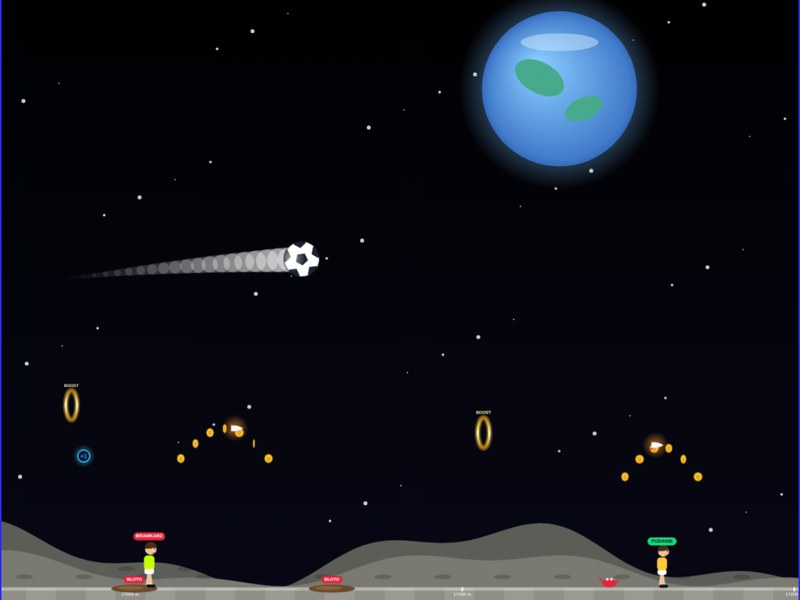
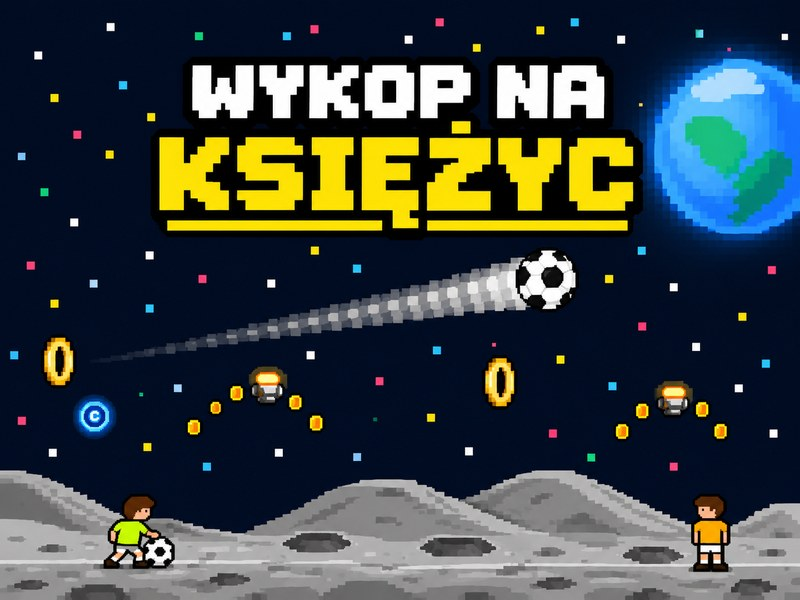
Add files via upload

diff --git a/assets/ss_ui.js b/assets/ss_ui.js
@@ -37,7 +37,7 @@ function header(){var s=S();
  fsBtn()+'</header>'}
 function nav(){return '<nav class="ss-nav">'+TABS.map(function(t){return '<button class="'+(UI.tab===t[0]?'on':'')+'" data-a="tab" data-v="'+t[0]+'"><i>'+t[1]+'</i><span>'+t[2]+'</span>'+(t[0]==='media'&&UI.mediaNew?'<b class="ss-dot"></b>':'')+'</button>'}).join('')+'</nav>'}
 
-function norm(sv){if(!sv)return sv;if(sv.phase==='match'&&!UI.MV)sv.phase='pre';if(sv.phase==='press')sv.phase='pre';if(sv.phase==='post'&&!UI.post){var w0=sv.win;sv.newSong=null;w0.mi++;if(w0.mi<w0.matches.length)sv.phase='pre';else{MM.finishWindow();sv.phase='wrap'}X.save()}if(sv.phase==='callup'&&!UI.callReady)prepCall();return sv}
+function norm(sv){if(!sv)return sv;if(sv.phase==='match'&&!UI.MV)sv.phase='pre';if(sv.phase==='press'&&!(UI.qs&&UI.qs[UI.pq])){sv.phase='pre';ensureXI()}if(sv.phase==='post'&&!UI.post){var w0=sv.win;sv.newSong=null;w0.mi++;if(w0.mi<w0.matches.length)sv.phase='pre';else{MM.finishWindow();sv.phase='wrap'}X.save()}if(sv.phase==='callup'&&!UI.callReady)prepCall();return sv}
 function render(){var s=S();if(s)norm(s);
  if(!s){unmountMatch();app.className='ss-app st';app.innerHTML=startScreen();return}
  if(s.phase==='match'&&UI.MV){if(!UI.mm){app.className='ss-app inm';app.innerHTML=matchShell();UI.mm=1;mountMatch()}renderOv();return}

diff --git a/assets/style.css b/assets/style.css
@@ -1400,3 +1400,5 @@ html.ss-lock,html.ss-lock body{overflow:hidden;overscroll-behavior:none}
 .ss-stake{margin:0 0 6px;font-size:13px;color:#cbd8f0;line-height:1.35}
 .ss-stat{margin:0 0 8px;font-size:13px;color:#a9bee3;padding:7px 10px;border-radius:10px;background:rgba(255,255,255,.05)}.ss-stat b{color:#fff}
 .ss-stat em{font-style:normal;font-weight:800}.ss-stat em.z-up{color:#16d97d}.ss-stat em.z-po{color:#ffb020}.ss-stat em.z-dn{color:#ff6b81}
+
+.home-more{display:flex;justify-content:center;margin-top:30px}.home-more .btn{font-size:17px;padding:15px 30px;text-transform:uppercase;letter-spacing:.04em}
